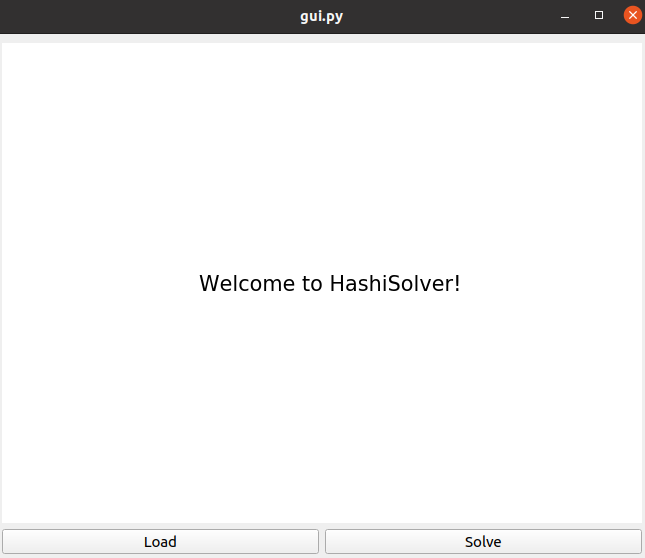
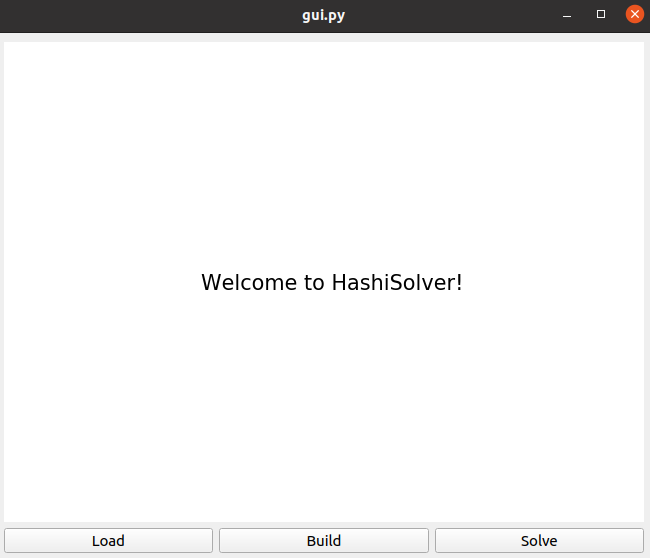
major improvements to image reader

diff --git a/reader/reader.py b/reader/reader.py
@@ -4,21 +4,12 @@ import sys
 import numpy as np
 import cv2
 import matplotlib.pyplot as plt
-import matplotlib.patches as patches
+from matplotlib.patches import Rectangle
 
 sys.path.append(os.path.abspath('../src'))
 from hashi import Hashi
 
 from digitreco import digitreco
-
-
-def find_internal_groups(data):
-    ### helper function
-    ids = np.where(data)[0]
-    groups = np.split(ids, np.where(np.diff(ids)!=1)[0] + 1)
-    if 0 in groups[0]: groups = groups[1:]
-    if len(data)-1 in groups[-1]: groups = groups[:-1]
-    return len(groups)
 
 
 class HashiImageReader(object):
@@ -49,16 +40,6 @@ class HashiImageReader(object):
         self.image = cv2.cvtColor(self.image, cv2.COLOR_BGR2GRAY)
         self.image = np.where(self.image>128,0,1)
         self.image = self.image.astype(np.uint8)
-        # use vertical and horizontal strips of whitespace
-        # to derive the number of rows and columns
-        # note: does not work as some hashi images
-        #       do not have whitespace between rows and columns...
-        #white_strips_vertical = np.all(self.image==0, axis=0)
-        #white_strips_horizontal = np.all(self.image==0, axis=1)
-        #ncols = find_internal_groups(white_strips_vertical)
-        #nrows = find_internal_groups(white_strips_horizontal)
-        #print(nrows)
-        #print(ncols)
         # remove whitespace
         self.image = self.image[~np.all(self.image==0, axis=1),:]
         self.image = self.image[:,~np.all(self.image==0, axis=0)]
@@ -82,19 +63,91 @@ class HashiImageReader(object):
         if doplot: plt.show(block=False)
         return (fig,ax)
 
-    def findsize(self):
-        # to do...
-        pass
-
-    def hashidict(self):
+    def findsize(self, verbose=False):
         if self.image is None: raise Exception('Current image is None')
-        if self.nrows is None or self.ncols is None:
-            #self.findsize()
-            msg = 'ERROR in HashiImageReader.hashidict:'
-            msg += ' for now, the expected size of the hashi must be set'
-            msg += ' manually in the nrows and ncols attributes'
-            msg += ' (automatic derivation of the size not yet implemented).'
+        # find connected components using cv2
+        img = np.copy(self.image)
+        img = np.ascontiguousarray(img, dtype=np.uint8)
+        n_labels, labels, stats, centroids = cv2.connectedComponentsWithStats(img)
+        if len(stats)==0:
+            msg = 'ERROR in HashiImageReader.findsize:'
+            msg += ' no centroids could be found in the input image.'
             raise Exception(msg)
+        # make image for debugging
+        if verbose:
+            fig,ax = self.drawimage(doplot=False)
+            for i in range(1, n_labels):
+                x = stats[i, cv2.CC_STAT_LEFT]
+                y = stats[i, cv2.CC_STAT_TOP]
+                w = stats[i, cv2.CC_STAT_WIDTH]
+                h = stats[i, cv2.CC_STAT_HEIGHT]
+                rectangle = Rectangle((x, y), w, h,
+                        fill=False, edgecolor='r', linewidth=2,
+                        clip_on=False)
+                ax.add_patch(rectangle)
+            ax.text(0.02, 1.02, 'Connected components before filtering',
+                    ha='left', va='bottom', transform=ax.transAxes,
+                    fontsize=13)
+            plt.show(block=False)
+        # filter clusters based on shape and size
+        ws = np.array([stats[i, cv2.CC_STAT_WIDTH] for i in range(len(stats))])
+        hs = np.array([stats[i, cv2.CC_STAT_HEIGHT] for i in range(len(stats))])
+        mask = np.ones(len(stats)).astype(bool)
+        mask = mask & (ws < img.shape[1]*0.9) & (hs < img.shape[0]*0.9)
+        aspect_ratio = np.divide(ws, hs)
+        mask = mask & (aspect_ratio>0.9) & (aspect_ratio<1.1)
+        maxw = np.max(ws[mask])
+        maxh = np.max(hs[mask])
+        mask = mask & (ws/maxw > 0.9) & (hs/maxh > 0.9)
+        centroids = centroids[mask]
+        # make image for debugging
+        if verbose:
+            fig,ax = self.drawimage(doplot=False)
+            indices = np.array(list(range(n_labels)))[mask]
+            for i in indices:
+                x = stats[i, cv2.CC_STAT_LEFT]
+                y = stats[i, cv2.CC_STAT_TOP]
+                w = stats[i, cv2.CC_STAT_WIDTH]
+                h = stats[i, cv2.CC_STAT_HEIGHT]
+                rectangle = Rectangle((x, y), w, h,
+                        fill=False, edgecolor='r', linewidth=2,
+                        clip_on=False)
+                ax.add_patch(rectangle)
+            ax.text(0.02, 1.02, 'Connected components after filtering',
+                    ha='left', va='bottom', transform=ax.transAxes,
+                    fontsize=13)
+            plt.show(block=False)
+        # check if any connected components remain
+        if len(centroids)==0:
+            msg = 'ERROR in HashiImageReader.findsize:'
+            msg += ' no centroids remain after filtering.'
+            raise Exception(msg)
+        # determine row height and column width from centroids
+        centroids_x = sorted(centroids[:,0])
+        centroids_y = sorted(centroids[:,1])
+        diff_x = np.diff(centroids_x)
+        diff_y = np.diff(centroids_y)
+        width_x = np.mean(diff_x[diff_x>5])
+        width_y = np.mean(diff_y[diff_y>5])
+        # determine number of rows and columns
+        self.nrows = int(round(img.shape[0]/width_x))
+        self.ncols = int(round(img.shape[1]/width_y))
+        # do printout
+        if verbose:
+            msg = 'INFO in HashiImageReader.findsize:\n'
+            msg += '  number of rows:\n'
+            msg += '    mean difference between centroids: {}\n'.format(width_x)
+            msg += '    total image height: {}\n'.format(img.shape[0])
+            msg += '    -> number of rows: {}\n'.format(self.nrows)
+            msg += '  number of columns:\n'
+            msg += '    mean difference between centroids: {}\n'.format(width_y)
+            msg += '    total image width: {}\n'.format(img.shape[1])
+            msg += '    -> number of columns: {}'.format(self.ncols)
+            print(msg)
+
+    def hashidict(self, verbose=False):
+        if self.image is None: raise Exception('Current image is None')
+        if self.nrows is None or self.ncols is None: self.findsize(verbose=verbose)
         # initialize output
         res = {}
         # read digit images
@@ -130,7 +183,7 @@ class HashiImageReader(object):
                 mask = dist <= center[0]*0.8
                 imgcell = np.where(mask, imgcell, 0)
                 # read digit
-                n = digitreco(imgcell, references=dimages, doplot=False)
+                n = digitreco(imgcell, references=dimages, doplot=verbose)
                 if n is not None: res[(j, self.ncols-i-1)] = n
         return res
 
@@ -138,17 +191,14 @@ class HashiImageReader(object):
 if __name__=='__main__':
 
     imfile = sys.argv[1]
-    hsize = tuple([int(el) for el in sys.argv[2].split(',')])
 
     HIR = HashiImageReader()
     HIR.loadimage(imfile)
-    #fig,ax = HIR.drawimage(doplot=False)
-
-    HIR.nrows = hsize[0]
-    HIR.ncols = hsize[1]
-    vertices = HIR.hashidict()
+    fig,ax = HIR.drawimage(doplot=False)
+    HIR.findsize(verbose=True)
+    vertices = HIR.hashidict(verbose=True)
     hashi = Hashi.from_dict(vertices)
     hashi.print()
     print(hashi.to_str())
 
-    plt.show()
+    plt.show(block=True)

diff --git a/reader/digitreco.py b/reader/digitreco.py
@@ -1,6 +1,7 @@
 import numpy as np
 import cv2
 import matplotlib.pyplot as plt
+from matplotlib.patches import Rectangle
 
 
 def digitreco(digit_image, references=None, doplot=False):
@@ -56,12 +57,39 @@ def digitreco(digit_image, references=None, doplot=False):
 
     # make a plot
     if doplot:
-        fig,axs = plt.subplots(nrows=len(references), ncols=3, squeeze=False)
+        nrows = len(references)
+        fig,axs = plt.subplots(figsize=(6,8), nrows=nrows, ncols=3, squeeze=False)
         for i,(digit, dimage) in enumerate(references.items()):
-            axs[i,0].imshow(digit_image)
-            axs[i,1].imshow(dimage)
-            axs[i,2].imshow(np.multiply(digit_image,dimage))
-        plt.show()
+            axs[i,0].imshow(digit_image, cmap='gray')
+            axs[i,1].imshow(dimage, cmap='gray')
+            axs[i,2].imshow(np.multiply(digit_image,dimage), cmap='gray')
+            for j in [0,1,2]:
+                axs[i,j].set_xticks([])
+                axs[i,j].set_yticks([])
+        fig.subplots_adjust(wspace=0, hspace=0)
+        # write overlap values
+        for i, (digit, overlap) in enumerate(overlaps.items()):
+            txt = 'Overlap score\nfor digit {}: {:.1E}'.format(digit, overlap)
+            axs[i,2].text(1.1, 0.5, txt,
+                    ha='left', va='center', transform=axs[i,2].transAxes)
+        # add a patch to highlight highest score
+        for i, (digit, overlap) in enumerate(overlaps.items()):
+            if digit!=res: continue
+            for j in [0,1,2]:
+                for spine in axs[i,j].spines.values():
+                    spine.set_edgecolor('r')
+                    spine.set_linewidth(2)
+        # write auxiliary text
+        axs[0,0].text(0.02, 1.1, 'Digit recognition',
+                transform=axs[0,0].transAxes, fontsize=13)
+        axs[-1,0].text(0.5, -0.05, 'Original',
+                ha='center', va='top', transform=axs[-1,0].transAxes)
+        axs[-1,1].text(0.5, -0.05, 'Reference',
+                ha='center', va='top', transform=axs[-1,1].transAxes)
+        axs[-1,2].text(0.5, -0.05, 'Overlap',
+                ha='center', va='top', transform=axs[-1,2].transAxes)
+        fig.tight_layout()
+        plt.show(block=False)
 
     # return best-fit digit
     return res

diff --git a/gui-pyqt5/hashibuilder.py b/gui-pyqt5/hashibuilder.py
@@ -7,10 +7,8 @@ from PyQt5.QtWidgets import QPushButton
 from PyQt5.QtWidgets import QFileDialog
 from PyQt5.QtWidgets import QLabel, QLineEdit
 
-sys.path.append(os.path.abspath('../src'))
+sys.path.append(os.path.join(os.path.dirname(__file__),'../src'))
 from hashi import Hashi
-sys.path.append(os.path.abspath('../reader'))
-from reader import HashiImageReader
 
 
 class PickSizeWindow(QWidget):
@@ -130,15 +128,15 @@ class HashiBuilderWindow(QWidget):
         self.main_layout.update()
         
     def choose_image(self, event):
+        sys.path.append(os.path.join(os.path.dirname(__file__),'../reader'))
+        from reader import HashiImageReader
         # choose file
         inputfile, _ = QFileDialog.getOpenFileName(self, 'Choose image', '../fls', '')
         if inputfile == '': return
         # read file into hashi vertices
         HIR = HashiImageReader()
         HIR.loadimage(inputfile)
-        HIR.nrows = 11 # to make automatic / interactive
-        HIR.ncols = 11 # to make automatic / interactive
-        vertices = HIR.hashidict()
+        vertices = HIR.hashidict(verbose=False)
         # update interactive display
         self.change_size(nrows=HIR.nrows, ncols=HIR.ncols)
         for (xcoord,ycoord),n in vertices.items():

diff --git a/gui-pyqt5/hashiplot.py b/gui-pyqt5/hashiplot.py
@@ -42,13 +42,13 @@ def makehashiplot(hashi, fig=None, ax=None):
         elif len(edges)==2:
             if edges[0].horizontal:
                 coords = [
-                  [coords[0]+0.4, coords[1]-0.05, coords[2]-0.4, coords[3]-0.05],
-                  [coords[0]+0.4, coords[1]+0.05, coords[2]-0.4, coords[3]+0.05]
+                  [coords[0]+0.4, coords[1]-0.07, coords[2]-0.4, coords[3]-0.07],
+                  [coords[0]+0.4, coords[1]+0.07, coords[2]-0.4, coords[3]+0.07]
                 ]
             elif edges[1].vertical:
                 coords = [
-                  [coords[0]-0.05, coords[1]+0.4, coords[2]-0.05, coords[3]-0.4],
-                  [coords[0]+0.05, coords[1]+0.4, coords[2]+0.05, coords[3]-0.4]
+                  [coords[0]-0.07, coords[1]+0.4, coords[2]-0.07, coords[3]-0.4],
+                  [coords[0]+0.07, coords[1]+0.4, coords[2]+0.07, coords[3]-0.4]
                 ]
             else: raise Exception('Not yet implemented.')
         else: raise Exception('Not yet implemented.')

diff --git a/solve.py b/solve.py
@@ -1,3 +1,5 @@
+#!/usr/bin/env python3
+
 import os
 import sys
 
@@ -11,7 +13,25 @@ if __name__=='__main__':
 
     # read input file
     inputfile = sys.argv[1]
-    h = Hashi.from_txt(inputfile)
+    h = None
+
+    # handle case where txt input file is provided
+    if inputfile.endswith('.txt'):
+        h = Hashi.from_txt(inputfile)
+    # handle case where image is provided
+    elif inputfile.endswith('.png') or inputfile.endswith('.jpg'):
+        sys.path.append('./reader')
+        from reader import HashiImageReader
+        HIR = HashiImageReader()
+        HIR.loadimage(inputfile)
+        vertices = HIR.hashidict(verbose=False)
+        h = Hashi.from_dict(vertices)
+    else:
+        msg = 'ERROR: type of input file not recognized;'
+        msg += ' only .txt, .png and .jpg files are supported (for now).'
+        raise Exception(msg)
+
+    # print the hashi
     h.print()
 
     # solve the hashi

diff --git a/gui-pyqt5/README.md b/gui-pyqt5/README.md
@@ -1,10 +1,12 @@
 # Graphical interface implementation with PyQt5 and matplotlib
 
-This serves as an alternative for the `bokeh` based approach (see the `gui-bokeh` folder).
+There is also an older `bokeh` based approach (see the [gui-bokeh](https://github.com/LukaLambrecht/HashiSolver/gui-bokeh) folder), but that one is outdated and not recommended anymore.
 
 ### Prerequisites
 On top of the general prerequisites (see the [general instructions](https://github.com/LukaLambrecht/HashiSolver)), you'll need the `matplotlib` and `PyQt5` packages.
 The former can be installed with (for example) `pip3 install matplotlib`, and the latter with `pip3 install 'PyQt5<5.15'` (the version restriction seems to be needed to avoid conflicts).
+
+Optionally, for using the image reader (see below), you'll need the `opencv` package as well. It can be installed with `pip3 install opencv-python`.
 
 ### Preparing the input
 You'll need your Hashi puzzle to solve in the form of a `.txt` file.
@@ -13,15 +15,46 @@ See the [general instructions](https://github.com/LukaLambrecht/HashiSolver) for
 ### Launching the GUI
 Run `./launch.sh` or alternatively `python3 gui.py`.
 
-### Using the GUI
+### Using the GUI with prepared input file
 After launching the GUI, you will see this display:
 
-![](../docs/gui-pyqt5/welcome.png)
+<img src="../docs/gui-pyqt5/welcome.png" width="200">
 
 Click the `Load` button, navigate to your prepared input `.txt` file, and open it. For example:
 
-![](../docs/gui-pyqt5/initial.png)
+<img src="../docs/gui-pyqt5/initial.png" width="200">
 
 Then click the `Solve` button. If the puzzle can be solved, you will see something like this:
 
-![](../docs/gui-pyqt5/solved.png)
+<img src="../docs/gui-pyqt5/solved.png" width="200">
+
+### Using the GUI with interactive builder
+Instead of preparing a `.txt` file as above, you can also build the Hashi interactively.
+After launching the GUI, click the `Build` button, and you will see a popup window like this:
+
+<img src="../docs/gui-pyqt5/builder.png" width="200">
+
+Change the size of the grid if needed, and fill the required number of connections in the appropriate locations. Then click `Ok`.
+See also below for an example.
+
+### Using the GUI with image reader
+Another possibility is to use an image (e.g. a screenshot) as input.
+Note that this feature does not yet work perfectly, but for clean screenshots (such as the one in the example below), you should get a reasonable estimate, that you can then modify interactively.
+
+Open the GUI and press the `Build` button, then press `Load from image` and select your input image.
+For example, we use the following image:
+
+<img src="../docs/gui-pyqt5/example.png" width="200">
+
+Which results in the following grid:
+
+<img src="../docs/gui-pyqt5/build_original.png" width="200">
+
+The topology is fine, but some digits are not recognized correctly.
+Make the required modifications to end up with this:
+
+<img src="../docs/gui-pyqt5/build_modified.png" width="200">
+
+Then press `Ok` and then `Solve`. Here is the result:
+
+<img src="../docs/gui-pyqt5/build_solved.png" width="200">

diff --git a/README.md b/README.md
@@ -76,7 +76,8 @@ which in turn corresponds to the following solved puzzle:
 <img src="docs/main/solved.png" width="200">
 
 ### Using the graphical interface
-See the dedicated instructions in the [gui-bokeh](gui-bokeh) or [gui-pyqt5](gui-pyqt5) folders.
+See the dedicated instructions in the [gui-pyqt5](gui-pyqt5) folder (or an alternative implementation in the [gui-bokeh](gui-bokeh) folder, but no longer recommended).
 
 ### Using images instead of txt files as input
-To do
+It is possible to use an image (e.g. a screenshot) as input, instead of preparing the `.txt` file as explained above.
+However, this feature does not yet work perfectly, and it is recommended to run it in the interactive mode to be able to make modifications (see instructions in the [gui-pyqt5](gui-pyqt5) folder).
